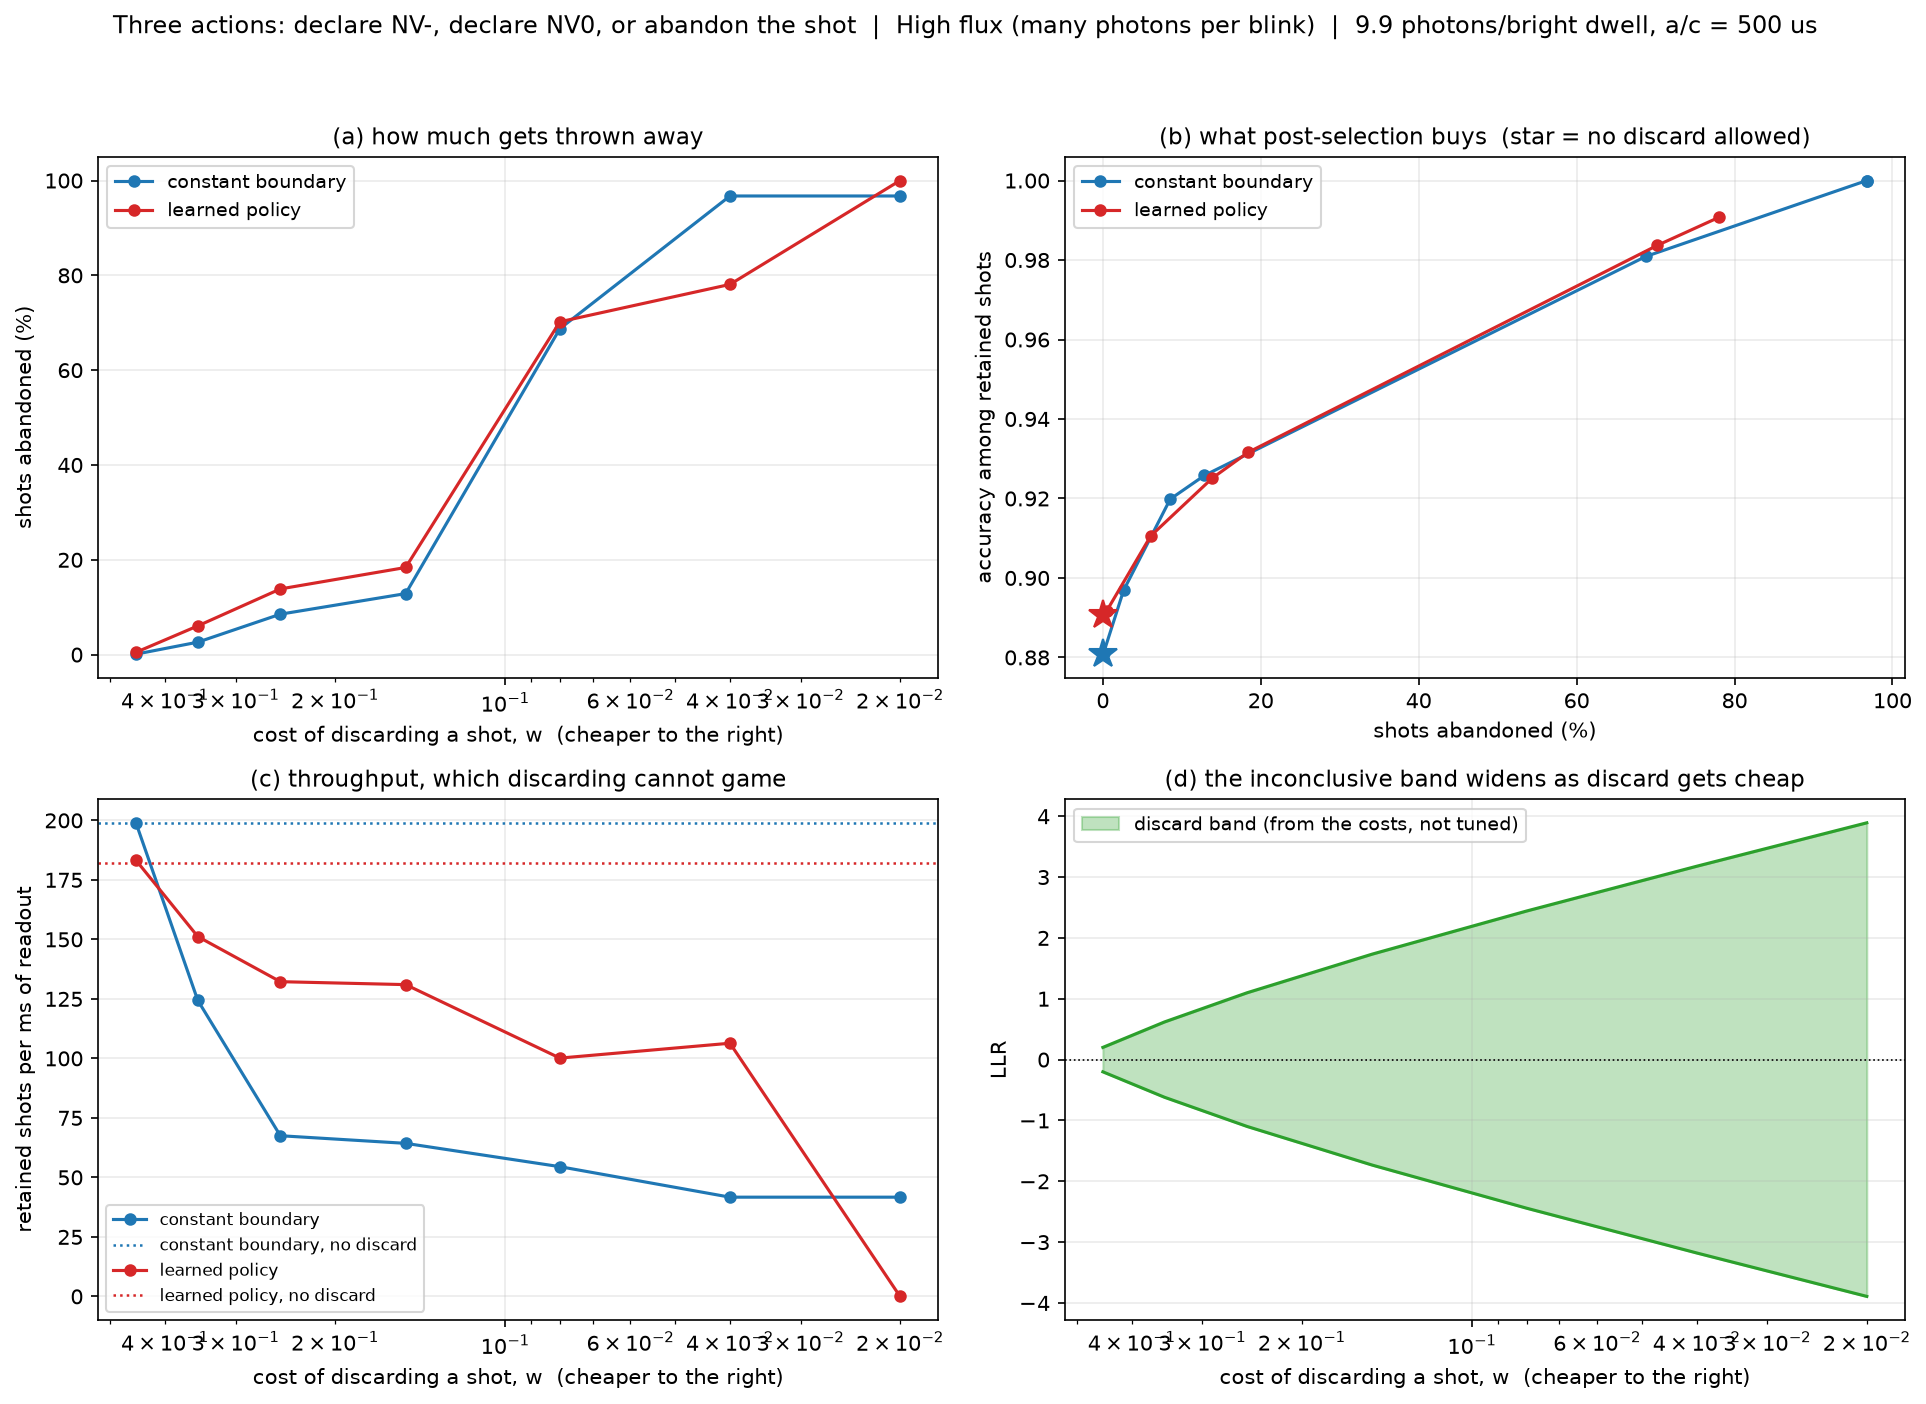
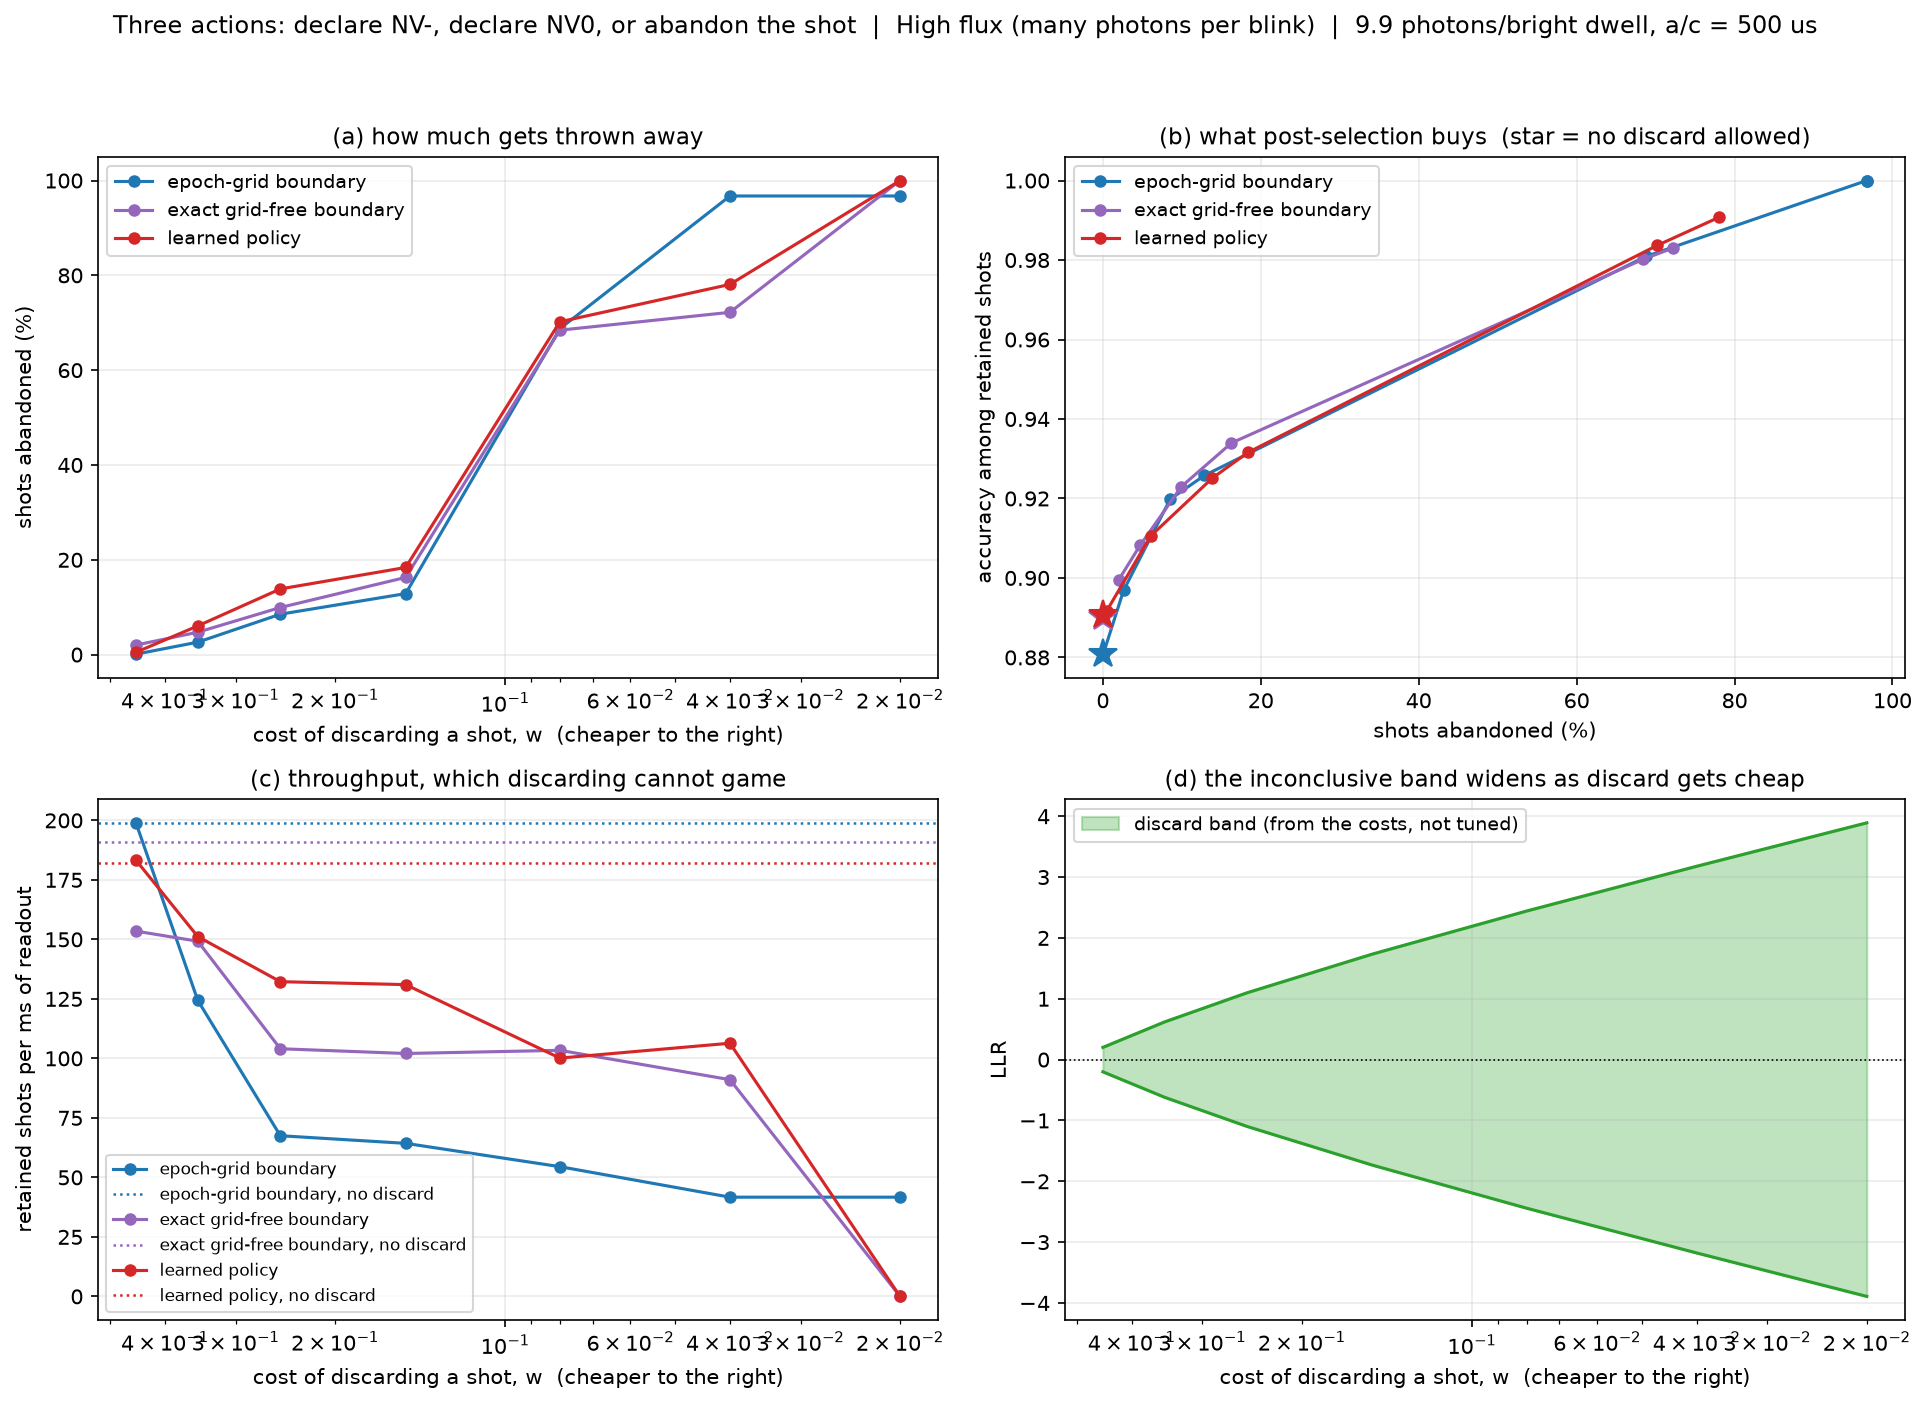
Score the exact boundary in the optimal-stopping risk table too
The discard sweep showed the learned policy's apparent edge was largely
the epoch-grid handicap. The same handicap was in run_optimal_stopping's
Bayes-risk table, which compared only against sprt_on_epochs -- so the
"+3% to +22% in the real regime" figure in the writeup is inflated by
the same mechanism.

It now tunes best_exact_boundary under each a/c as well, and the
reported reduction is against the BEST of the three boundary variants.
cal_packed comes back for that reason, having been removed two commits
ago as dead.

Smoke measurement at the moderate point: against the exact boundary the
learned policy runs -10% to +6%, negative at most a/c values, and wins
only in a narrow band around a/c 300-1300. The writeup follows once the
full-size run lands.

Claude-Session: https://claude.ai/code/session_01QPNqKJ2d1r7hY2FSJML7Zq

diff --git a/adaptive_charge_state_master.py b/adaptive_charge_state_master.py
@@ -5691,10 +5691,12 @@ def run_optimal_stopping(
         cfg.n_test, horizon_us / 1000.0, params, seed + 7717, detector, noise
     )
 
-    # Only the TEST records are packed: calibration is done on the epoch
-    # filter paths and on raw counts, so packing the calibration records too
-    # was building an unused array of every interval for every shot.
     spec = build_no_click_spectral(filter_params)
+    # The calibration records are packed because the EXACT boundary is tuned
+    # on them; the epoch-restricted rules use the filter paths instead.
+    cal_packed = pack_records(
+        build_records(cal_shots, horizon_us, filter_params, spec), spec
+    )
     test_packed = pack_records(
         build_records(test_shots, horizon_us, filter_params, spec), spec
     )
@@ -5787,6 +5789,17 @@ def run_optimal_stopping(
         st_x, pr_x = sprt_on_epochs(
             test_paths, cal_exh["L"], cal_exh["offset"], EXHAUSTION_EPS
         )
+        # The exact grid-free boundary, tuned under the same economics. Without
+        # it the risk comparison below would pit the learned policy against an
+        # epoch-restricted opponent and overstate its advantage -- measured at
+        # roughly 3x in the discard sweep before this was added.
+        cal_ex = best_exact_boundary(
+            cal_packed, cal_labels, econ, deadlines_us, EXHAUSTION_EPS
+        )
+        st_e, pr_e = run_sprt(
+            test_packed, cal_ex["L"], cal_ex["offset"], cal_ex["deadline_us"],
+            EXHAUSTION_EPS, econ,
+        )
         coeffs = fit_stopping_rule(cal_paths, econ)
         # The policy's terminal cutoff is calibrated on the same paths it
         # was fitted to, then applied to test -- the convention every other
@@ -5803,7 +5816,13 @@ def run_optimal_stopping(
                 "a_over_c": float(ac),
                 "risk_grid_sprt": bayes_risk(st_g, pr_g, test_labels, econ),
                 "risk_exhaustion": bayes_risk(st_x, pr_x, test_labels, econ),
+                "risk_exact_sprt": bayes_risk(st_e, pr_e, test_labels, econ),
                 "risk_learned": bayes_risk(st_l, pr_l, test_labels, econ),
+                "F_exact_sprt": balanced_fidelity(test_labels, pr_e),
+                "T_exact_sprt": balanced_mean_time(test_labels, st_e),
+                "exact_L": cal_ex["L"],
+                "exact_offset": cal_ex["offset"],
+                "exact_deadline_us": cal_ex["deadline_us"],
                 "F_grid_sprt": balanced_fidelity(test_labels, pr_g),
                 "T_grid_sprt": balanced_mean_time(test_labels, st_g),
                 "F_exhaustion": balanced_fidelity(test_labels, pr_x),
@@ -5815,10 +5834,16 @@ def run_optimal_stopping(
                 "learned_cutoff": float(cut_l),
             }
         )
+        # Against the BETTER of the two boundary rules, so the learned policy
+        # is never credited for beating a handicapped opponent.
+        best_boundary = min(
+            rows[-1]["risk_grid_sprt"],
+            rows[-1]["risk_exhaustion"],
+            rows[-1]["risk_exact_sprt"],
+        )
+        rows[-1]["best_boundary_risk"] = best_boundary
         rows[-1]["risk_reduction_pct"] = (
-            100.0
-            * (rows[-1]["risk_grid_sprt"] - rows[-1]["risk_learned"])
-            / rows[-1]["risk_grid_sprt"]
+            100.0 * (best_boundary - rows[-1]["risk_learned"]) / best_boundary
         )
 
     lsm_correct = np.column_stack(lsm_correct)
@@ -5912,14 +5937,15 @@ def run_optimal_stopping(
 
     if cfg.verbose:
         print(
-            f"\n{'a/c(us)':>9}{'risk SPRT':>11}{'+exh':>10}{'learned':>10}"
+            f"\n{'a/c(us)':>9}{'risk SPRT':>11}{'+exh':>10}{'exact':>10}{'learned':>10}"
             f"{'red.':>8} | {'T SPRT':>9}{'T +exh':>9}{'T learn':>9}"
             f" | {'F SPRT':>8}{'F learn':>8}"
         )
         for r in rows:
             print(
                 f"{r['a_over_c']:9.0f}{r['risk_grid_sprt']:11.4f}"
-                f"{r['risk_exhaustion']:10.4f}{r['risk_learned']:10.4f}"
+                f"{r['risk_exhaustion']:10.4f}{r['risk_exact_sprt']:10.4f}"
+                f"{r['risk_learned']:10.4f}"
                 f"{r['risk_reduction_pct']:7.1f}% | {r['T_grid_sprt']:9.1f}"
                 f"{r['T_exhaustion']:9.1f}{r['T_learned']:9.1f}"
                 f" | {r['F_grid_sprt']:8.4f}{r['F_learned']:8.4f}"
@@ -7851,12 +7877,16 @@ _OPTIMAL_CSV_COLUMNS = [
     "a_over_c",
     "risk_grid_sprt",
     "risk_exhaustion",
+    "risk_exact_sprt",
     "risk_learned",
+    "best_boundary_risk",
     "risk_reduction_pct",
     "F_grid_sprt",
     "T_grid_sprt",
     "F_exhaustion",
     "T_exhaustion",
+    "F_exact_sprt",
+    "T_exact_sprt",
     "F_learned",
     "T_learned",
     "L",

diff --git a/results/README.md b/results/README.md
@@ -303,7 +303,44 @@ straight to 88% discard for +0.19 — there is so little information per shot th
 to be confident is to keep almost nothing. Post-selection is a way to spend
 surplus information, so it pays where there is surplus.
 
+### Correction: the learned policy's edge was mostly a handicapped opponent
+
+The first version of this section compared the learned policy only against
+the **epoch-restricted** boundary rule and reported a 10–24% risk reduction
+at the moderate point. The exact grid-free SPRT — the strongest rule in this
+repo, and the one every main sweep uses — could not discard at all, because
+`run_sprt` took no economics. It can now, and the comparison changes:
+
+| point | w | epoch boundary | **exact boundary** | learned | learned vs exact |
+|---|---|---|---|---|---|
+| moderate | ∞ | 0.1025 | **0.0907** | 0.0919 | −1.4% |
+| moderate | 0.45 | 0.1024 | **0.0907** | 0.0885 | +2.4% |
+| moderate | 0.25 | 0.1013 | **0.0857** | 0.0863 | −0.6% |
+| moderate | 0.15 | 0.1009 | **0.0809** | 0.0783 | +3.1% |
+| moderate | 0.08 | 0.0762 | **0.0746** | 0.0680 | **+8.8%** |
+| high flux | 0.25 | 0.1218 | **0.1115** | 0.1122 | −0.6% |
+| high flux | 0.15 | 0.1111 | **0.0961** | 0.0959 | +0.3% |
+| sparse | ∞ | 0.3206 | **0.3170** | 0.3196 | −0.8% |
+
+Almost the whole apparent advantage was the epoch grid, not the policy.
+Against the proper incumbent the learned policy is a **wash** — it wins 7 of
+the 17 non-degenerate (point, w) settings and the exact boundary wins 10,
+with margins under 1% in most of them. The one place it clearly leads is
+w ≈ 0.08 at the moderate point, +8.8%, where it abandons 17% of shots
+against the boundary's 70% and still comes out cheaper.
+
+This reinforces rather than undermines the earlier optimal-stopping finding:
+a tuned constant boundary with a calibrated offset is close to the Bayes
+optimum, and stays close once a third action is added. The place to spend
+effort is the filter, not the stopping rule.
+
+**The exact rule is also much faster**, which is where its advantage comes
+from: 13.0 µs against the epoch rule's 18.4 µs at the moderate point, and a
+throughput of 76.7 against 54.3 retained shots per ms. The epoch grid was
+costing the boundary rule real time, not just decision resolution.
+
 ### Two structural results
+
 
 **Abandoning every shot at t = 0 is always feasible and costs exactly w, so
 no optimal rule can exceed w.** That is the sharpest available check on the
